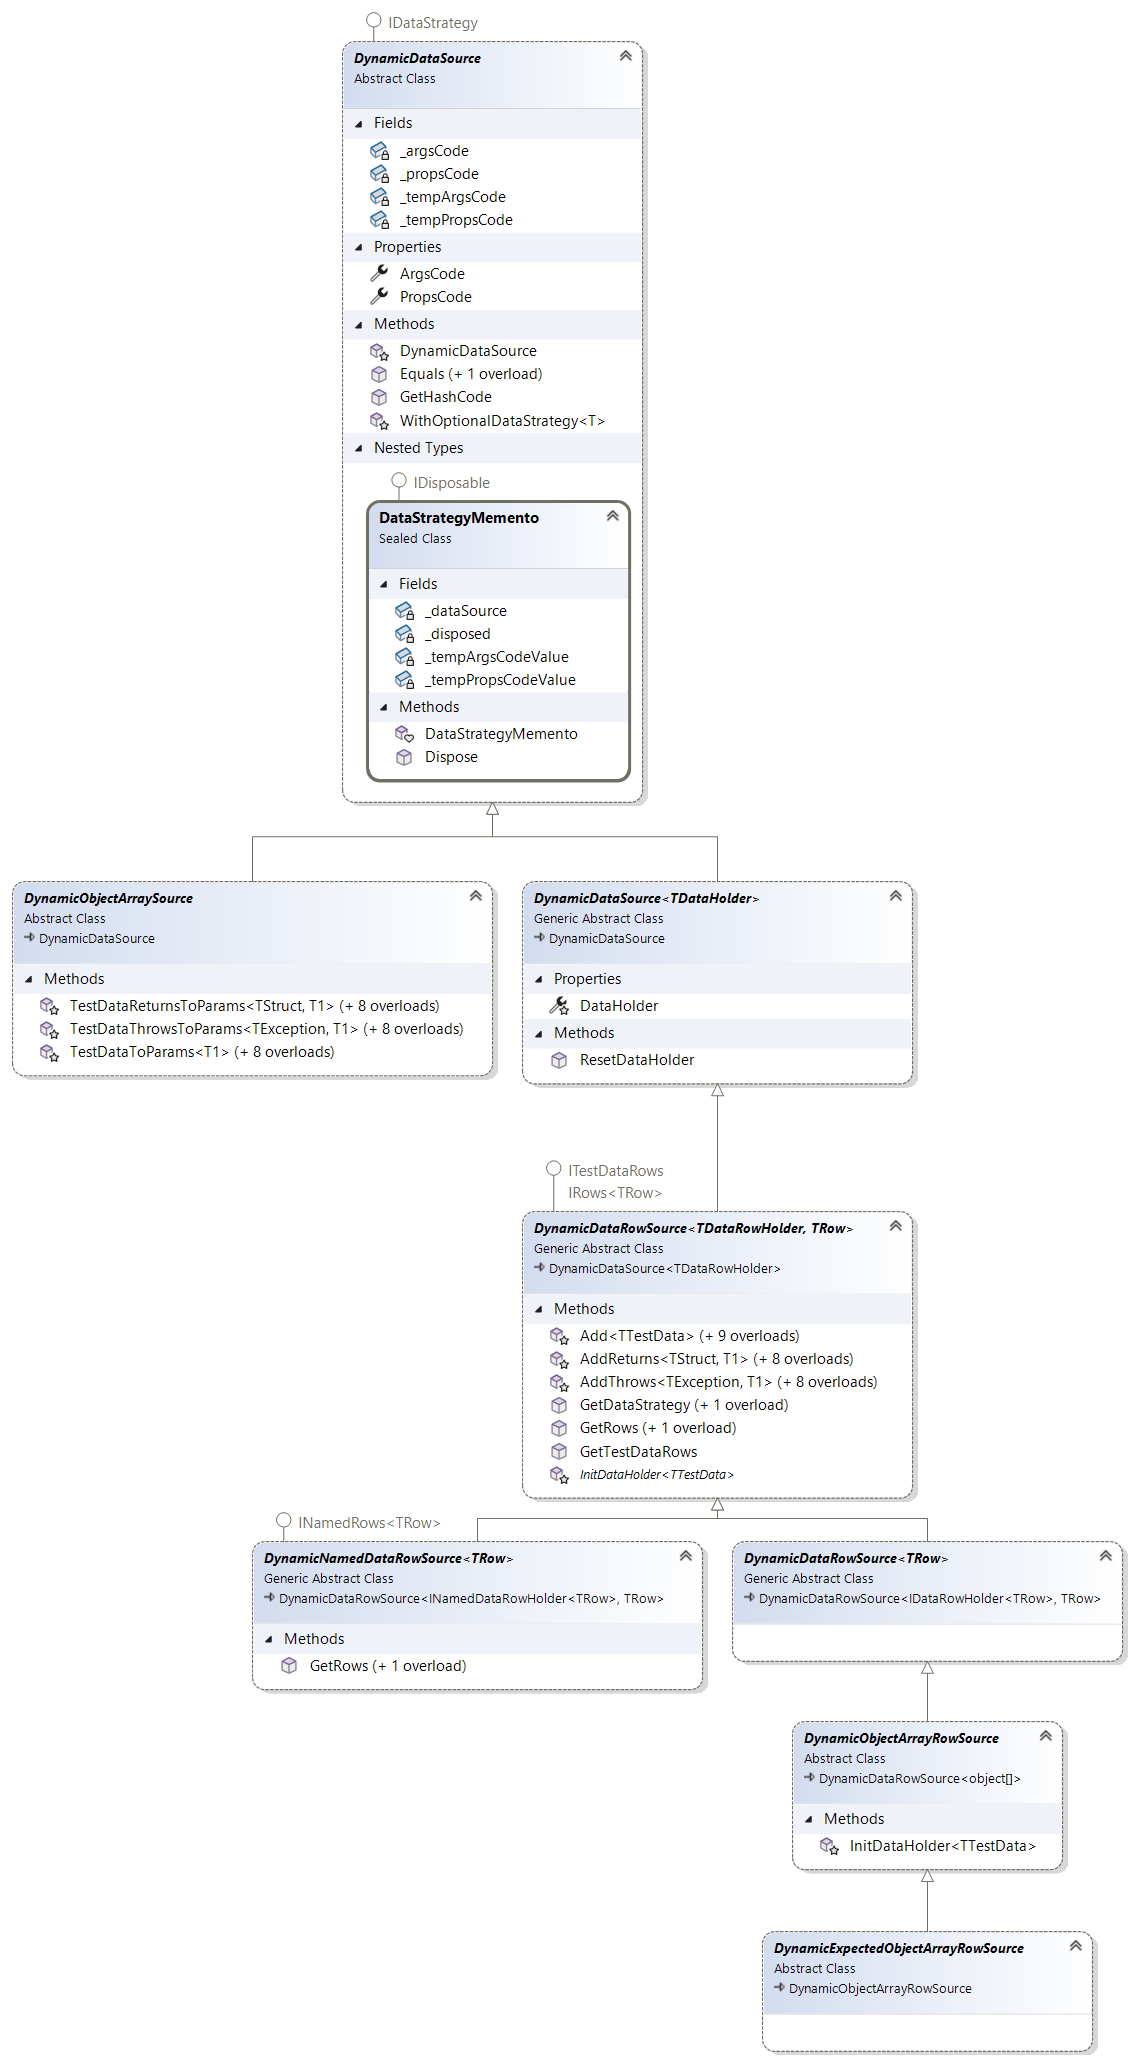
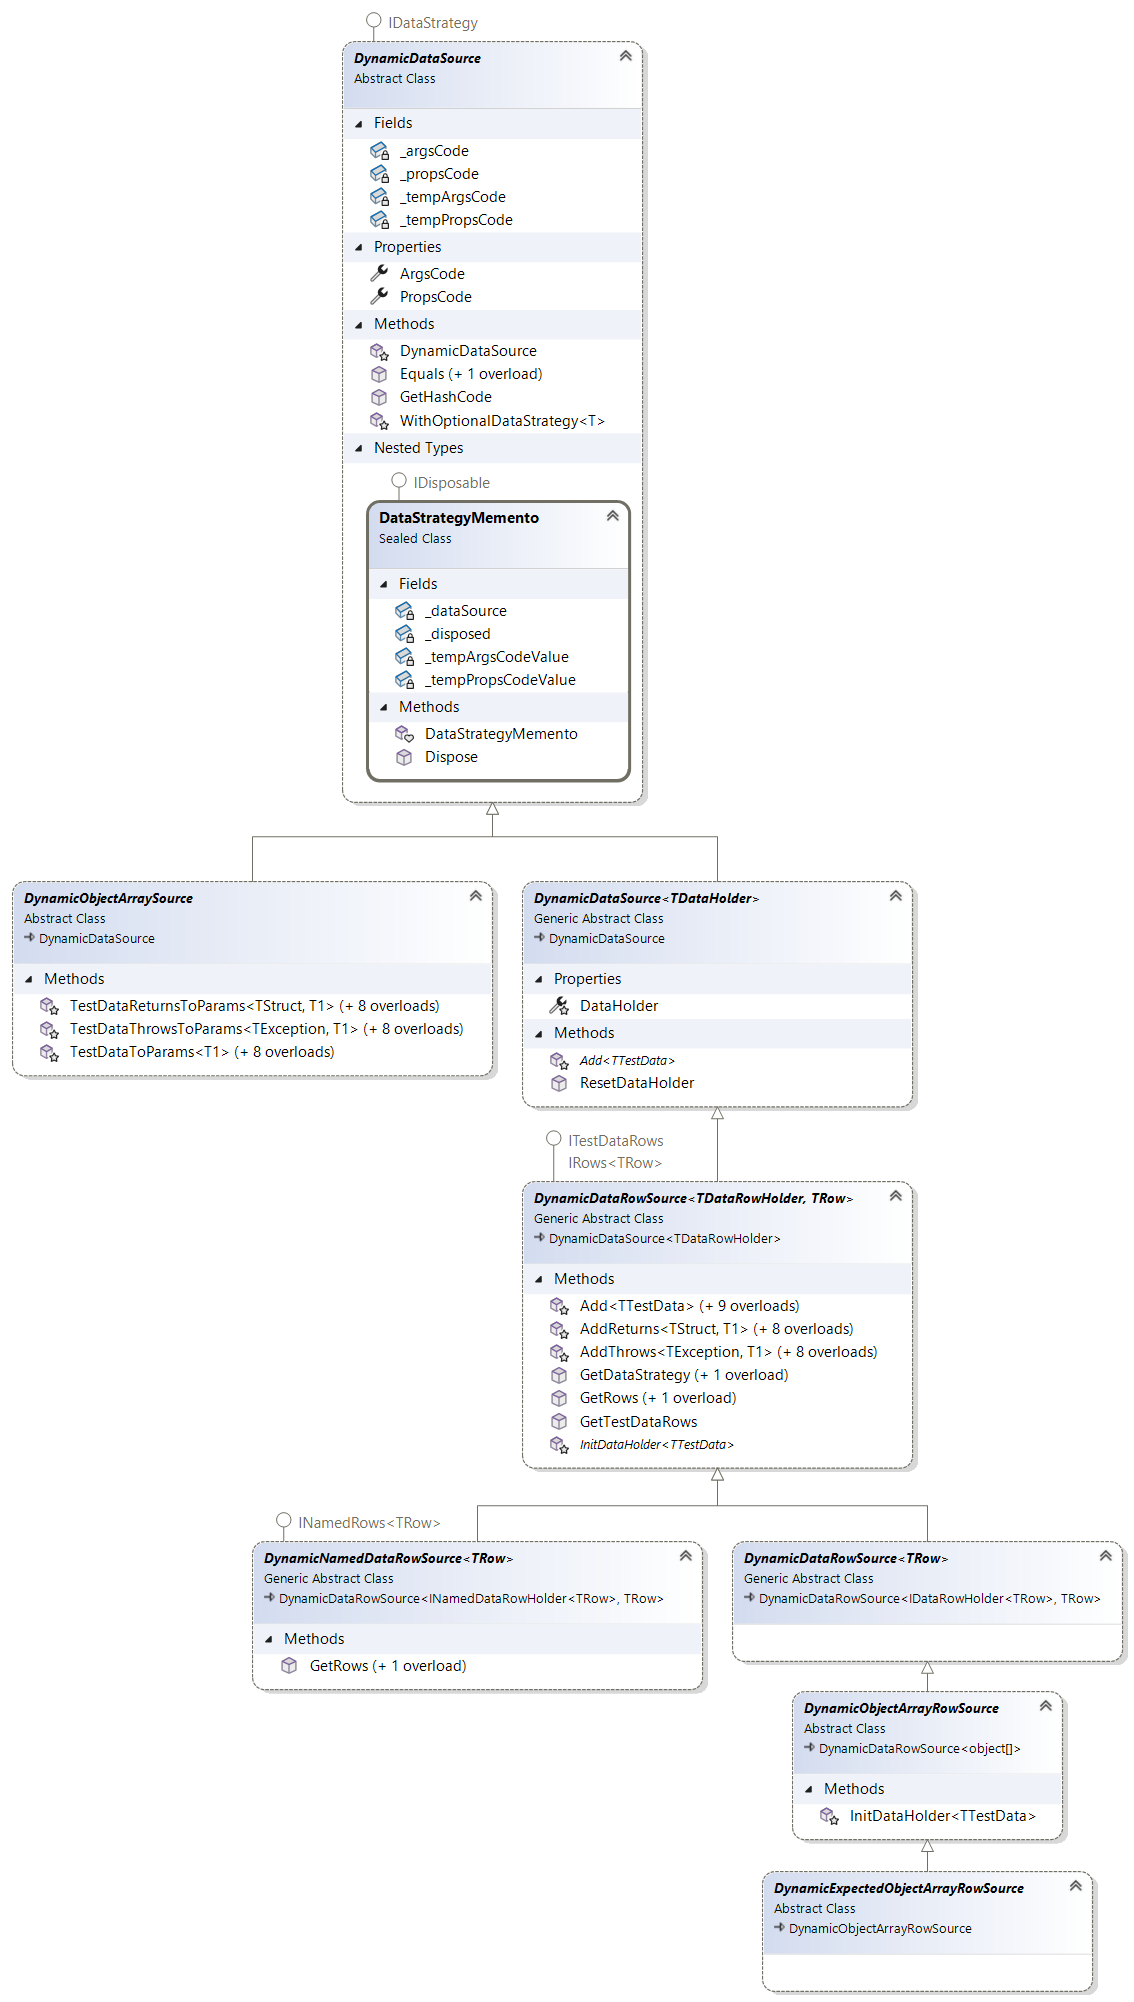
Add abstract override (#30)
* abstract / override Add<TTestData>(TTestData)

* increment v2.0.8-beta

diff --git a/DynamicDataSources/DynamicDataSource.cs b/DynamicDataSources/DynamicDataSource.cs
@@ -10,7 +10,7 @@ namespace CsabaDu.DynamicTestData.DynamicDataSources;
 /// </summary>
 /// <remarks>
 /// <para>
-/// Implements a memento pattern for temporarily modifying data strategy parameters (ArgsCode and PropsCode)
+/// Implements a dsm pattern for temporarily modifying data strategy parameters (ArgsCode and PropsCode)
 /// within a specific scope. Changes automatically revert when the scope exits.
 /// </para>
 /// <para>
@@ -81,7 +81,8 @@ public abstract class DynamicDataSource : IDataStrategy
     /// <value>
     /// The temporary <see cref="ArgsCode"/> set, otherwise the default <see cref="Statics.ArgsCode"/>.
     /// </value>
-    public ArgsCode ArgsCode => _tempArgsCode.Value ?? _argsCode;
+    public ArgsCode ArgsCode
+    => _tempArgsCode.Value ?? _argsCode;
 
     /// <summary>
     /// Gets the currently active <see cref="PropsCode"/>, preferring any temporary override.
@@ -89,7 +90,8 @@ public abstract class DynamicDataSource : IDataStrategy
     /// <value>
     /// The temporary <see cref="PropsCode"/> if set, otherwise the default <see cref="Statics.PropsCode"/>.
     /// </value>
-    public PropsCode PropsCode => _tempPropsCode.Value ?? _propsCode;
+    public PropsCode PropsCode
+    => _tempPropsCode.Value ?? _propsCode;
     #endregion
 
     #region Constructors
@@ -97,7 +99,7 @@ public abstract class DynamicDataSource : IDataStrategy
     /// Initializes a new instance with default strategy values.
     /// </summary>
     /// <param name="argsCode">The default argument processing mode.</param>
-    /// <param name="propsCode">The default currentPropValue inclusion mode.</param>
+    /// <param name="propsCode">The default currentValue inclusion mode.</param>
     /// <exception cref="ArgumentNullException">
     /// Thrown if either parameter is null.
     /// </exception>
@@ -128,7 +130,7 @@ public abstract class DynamicDataSource : IDataStrategy
     /// <remarks>
     /// <para>
     /// Only applies temporary overrides when they differ from current values.
-    /// Minimizes memento creation when possible.
+    /// Minimizes dsm creation when possible.
     /// </para>
     /// </remarks>
     protected T WithOptionalDataStrategy<T>(
@@ -145,7 +147,7 @@ public abstract class DynamicDataSource : IDataStrategy
             return dataGenerator();
         }
 
-        using var memento = new DataStrategyMemento(
+        using DataStrategyMemento dsm = new(
             this,
             argsCode ?? ArgsCode,
             propsCode ?? PropsCode);
@@ -155,9 +157,9 @@ public abstract class DynamicDataSource : IDataStrategy
         #region Local methods
         static bool codeUnchanged<TCode>(
             TCode? nullableParam,
-            TCode currentPropValue)
+            TCode currentValue)
         where TCode : struct, Enum
-        => nullableParam?.Equals(currentPropValue) != false;
+        => nullableParam?.Equals(currentValue) != false;
         #endregion
     }
     #endregion
@@ -203,8 +205,8 @@ public abstract class DynamicDataSource : IDataStrategy
 /// </para>
 /// </remarks>
 public abstract class DynamicDataSource<TDataHolder>(ArgsCode argsCode, PropsCode propsCode)
-    : DynamicDataSource(argsCode, propsCode)
-    where TDataHolder : class
+: DynamicDataSource(argsCode, propsCode)
+where TDataHolder : class
 {
     /// <summary>
     /// Gets or sets the current data holder instance.
@@ -216,4 +218,12 @@ public abstract class DynamicDataSource<TDataHolder>(ArgsCode argsCode, PropsCod
     /// </summary>
     public virtual void ResetDataHolder()
     => DataHolder = default;
+
+    /// <summary>
+    /// Adds the specified test data to the collection.
+    /// </summary>
+    /// <typeparam name="TTestData">The type of the test data to add. Must implement <see cref="ITestData"/> and cannot be null.</typeparam>
+    /// <param name="testData">The test data to add. This parameter cannot be null.</param>
+    protected abstract void Add<TTestData>(TTestData testData)
+    where TTestData : notnull, ITestData;
 }

diff --git a/DynamicDataSources/DynamicDataRowSource.cs b/DynamicDataSources/DynamicDataRowSource.cs
@@ -30,10 +30,10 @@ namespace CsabaDu.DynamicTestData.DynamicDataSources;
 /// </para>
 /// </remarks>
 public abstract class DynamicDataRowSource<TDataRowHolder, TRow>(ArgsCode argsCode, PropsCode propsCode)
-    : DynamicDataSource<TDataRowHolder>(argsCode, propsCode),
-      ITestDataRows,
-      IRows<TRow>
-    where TDataRowHolder : class, IDataRowHolder<TRow>
+: DynamicDataSource<TDataRowHolder>(argsCode, propsCode),
+    ITestDataRows,
+    IRows<TRow>
+where TDataRowHolder : class, IDataRowHolder<TRow>
 {
     #region Public Methods
     #region GetTestDataRows
@@ -101,8 +101,7 @@ public abstract class DynamicDataRowSource<TDataRowHolder, TRow>(ArgsCode argsCo
     /// </summary>
     /// <typeparam name="TTestData">The test data type (must implement <see cref="ITestData"/>).</typeparam>
     /// <param name="testData">The test data to add.</param>
-    protected virtual void Add<TTestData>(TTestData testData)
-    where TTestData : notnull, ITestData
+    protected override void Add<TTestData>(TTestData testData)
     {
         if (DataHolder is not IDataRowHolder<TRow, TTestData> dataRowHolder)
         {
